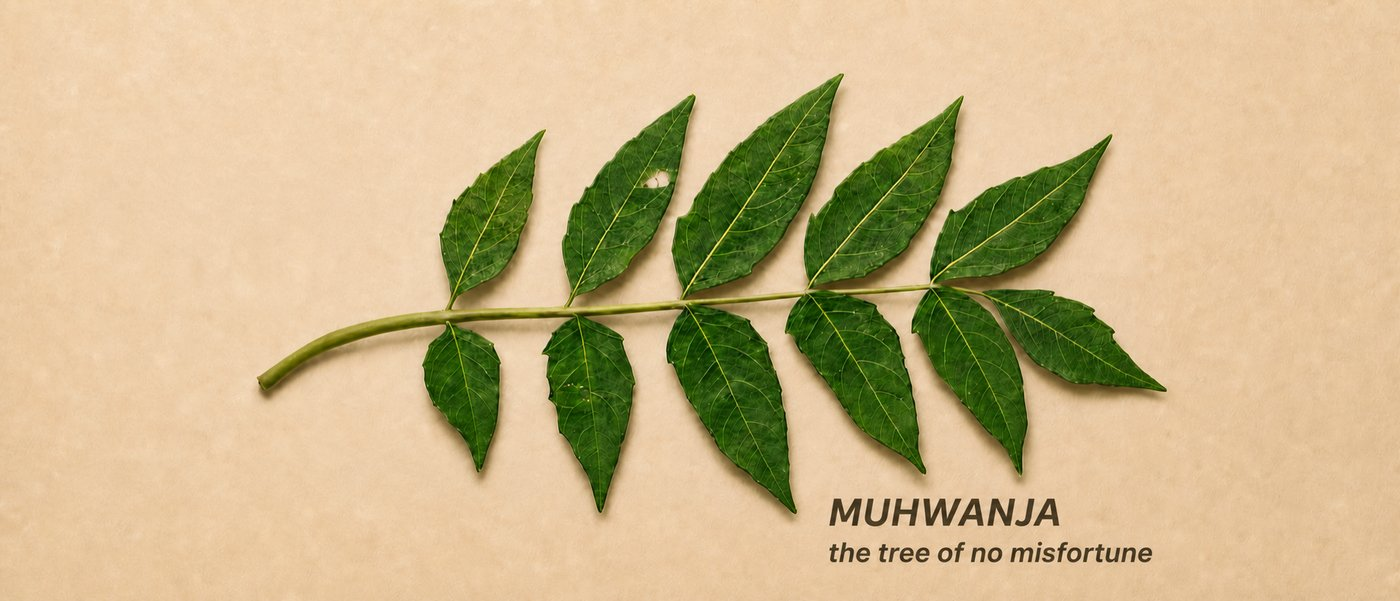
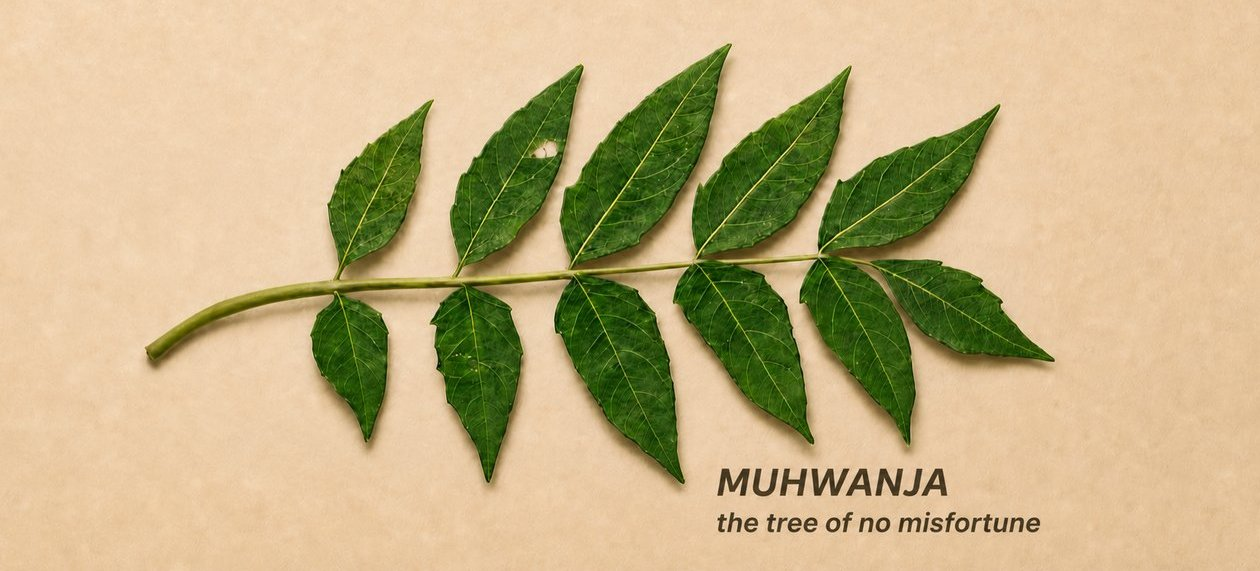
Add files via upload

Changed region(s): [[0.0929, 0.0595, 0.8357, 0.9527]]

diff --git a/app.js b/app.js
@@ -269,7 +269,7 @@ if (typeof document !== 'undefined' && document.getElementById('app')) (function
   var wxCache = load(LS_WX);
   var newsCache = load(LS_NEWS);
   var activeTab = 'watch';
-  var lastMsgKey = '', wakeLock = null, wakeWanted = false;
+  var lastMsgKey = '';
 
   function load(k) { try { return JSON.parse(localStorage.getItem(k)); } catch (e) { return null; } }
   function save() { localStorage.setItem(LS_STATE, JSON.stringify(state)); }
@@ -278,7 +278,7 @@ if (typeof document !== 'undefined' && document.getElementById('app')) (function
   /* ---------- DOM ---------- */
   function $(id) { return document.getElementById(id); }
   var els = {
-    date: $('hdrDate'), clock: $('hdrClock'), wakeBtn: $('wakeBtn'),
+    date: $('hdrDate'), clock: $('hdrClock'), btnDark: $('btnDark'),
     vStandby: $('view-standby'), vActive: $('view-active'), vDone: $('view-done'), vHistory: $('view-history'),
     greetTitle: $('greetTitle'), greetSub: $('greetSub'), sugBox: $('sugBox'), wxStandby: $('wxStandby'),
     leafMarkers: $('leafMarkers'),
@@ -315,7 +315,7 @@ if (typeof document !== 'undefined' && document.getElementById('app')) (function
     var now = new Date();
     if (state.current && now.getTime() > state.current.end + 12 * HOUR) archive(false);
     document.body.classList.toggle('dawn', state.current ? phase(now) === 'done' : false);
-    els.wakeBtn.style.visibility = (state.current && phase(now) === 'active' && 'wakeLock' in navigator) ? 'visible' : 'hidden';
+    document.body.classList.toggle('phase-active', activeTab === 'watch' && phase(now) === 'active');
     if (activeTab === 'history') { show('vHistory'); renderHistory(); }
     else {
       var ph = phase(now);
@@ -445,18 +445,18 @@ if (typeof document !== 'undefined' && document.getElementById('app')) (function
   }
 
   /* ---------- Muhwanja leaf call counter ---------- */
-  var LEAF_POSITIONS = [ // image-percent coords, clockwise from upper-left leaf
-    { x: 36,   y: 35, w: 9   },
-    { x: 44.5, y: 32, w: 9.5 },
-    { x: 53,   y: 31, w: 10  },
-    { x: 62,   y: 32, w: 9.5 },
-    { x: 71,   y: 35, w: 9   },
-    { x: 82,   y: 58, w: 10  },
-    { x: 71,   y: 61, w: 9   },
-    { x: 62,   y: 63, w: 9.5 },
-    { x: 52,   y: 65, w: 10  },
-    { x: 43,   y: 65, w: 9.5 },
-    { x: 34,   y: 63, w: 9   }
+  var LEAF_POSITIONS = [ // cropped-image percent coords, clockwise from upper-left leaf
+    { x: 31.1, y: 31.6, w: 9   },
+    { x: 40.6, y: 28.4, w: 9.5 },
+    { x: 50.0, y: 27.4, w: 10  },
+    { x: 60.0, y: 28.4, w: 9.5 },
+    { x: 70.0, y: 31.6, w: 9   },
+    { x: 79.0, y: 53.5, w: 10  },
+    { x: 70.0, y: 58.9, w: 9   },
+    { x: 60.0, y: 61.1, w: 9.5 },
+    { x: 48.9, y: 63.2, w: 10  },
+    { x: 38.9, y: 63.2, w: 9.5 },
+    { x: 28.9, y: 61.1, w: 9   }
   ];
   function renderLeafCalls() {
     if (!els.leafMarkers) return;
@@ -470,8 +470,8 @@ if (typeof document !== 'undefined' && document.getElementById('app')) (function
       if (i === LEAF_POSITIONS.length - 1 && total > LEAF_POSITIONS.length) {
         label = String(total); // 12th call onward: last leaf shows the running total
       }
-      var sizeVw = pos.w * 0.66;
-      var markerSize = 'clamp(20px,' + sizeVw.toFixed(2) + 'vw,40px)';
+      var sizeVw = pos.w * 0.44; // 잎 너비의 약 2/3에서 다시 2/3로 축소
+      var markerSize = 'clamp(13px,' + sizeVw.toFixed(2) + 'vw,27px)';
       html += '<span class="leaf-marker" style="left:' + pos.x + '%;top:' + pos.y +
         '%;--marker-size:' + markerSize + ';">' + label + '</span>';
     }
@@ -870,26 +870,20 @@ if (typeof document !== 'undefined' && document.getElementById('app')) (function
       .catch(function () { renderTicker(); });
   }
 
-  /* ---------- Keep screen on ---------- */
-  if ('wakeLock' in navigator) {
-    els.wakeBtn.addEventListener('click', function () {
-      wakeWanted = !wakeWanted;
-      if (wakeWanted) acquireWake(); else releaseWake();
-    });
-    document.addEventListener('visibilitychange', function () {
-      if (wakeWanted && document.visibilityState === 'visible') acquireWake();
-    });
+  /* ---------- Dark mode toggle ---------- */
+  var SUN_ICON = '<circle cx="12" cy="12" r="4"/><path d="M12 2v2M12 20v2M4.9 4.9l1.4 1.4M17.7 17.7l1.4 1.4M2 12h2M20 12h2M4.9 19.1l1.4-1.4M17.7 6.3l1.4-1.4"/>';
+  var MOON_ICON = '<path d="M21 12.8A9 9 0 1 1 11.2 3a7 7 0 0 0 9.8 9.8z"/>';
+  function applyDark() {
+    document.body.classList.toggle('dark', !!settings.dark);
+    $('darkIcon').innerHTML = settings.dark ? SUN_ICON : MOON_ICON;
+    var meta = document.querySelector('meta[name="theme-color"]');
+    if (meta) meta.setAttribute('content', settings.dark ? '#14100A' : '#F0E9DA');
   }
-  function acquireWake() {
-    navigator.wakeLock.request('screen').then(function (wl) {
-      wakeLock = wl;
-      els.wakeBtn.classList.add('on');
-    }).catch(function () { wakeWanted = false; });
-  }
-  function releaseWake() {
-    if (wakeLock) { wakeLock.release(); wakeLock = null; }
-    els.wakeBtn.classList.remove('on');
-  }
+  els.btnDark.addEventListener('click', function () {
+    settings.dark = !settings.dark;
+    saveSet();
+    applyDark();
+  });
 
   /* ---------- Tabs ---------- */
   document.querySelectorAll('.tab').forEach(function (t) {
@@ -937,6 +931,7 @@ if (typeof document !== 'undefined' && document.getElementById('app')) (function
   window.addEventListener('online', function () { fetchWeather(true); fetchNews(true); });
 
   /* ---------- Boot ---------- */
+  applyDark();
   renderHeader(new Date());
   lastPhase = state.current ? phase(new Date()) : 'standby';
   renderAll();

diff --git a/index.html b/index.html
@@ -78,9 +78,10 @@ body.dawn .atmo::before{
   display:flex;flex-direction:column;
   padding:calc(var(--safe-t) + 6px) 18px calc(var(--safe-b) + 6px);}
 
-/* ---------- Hospital banner ---------- */
-.banner{flex:none;width:calc(100% + 36px);margin:0 -18px;display:block;}
-.banner img{display:block;width:100%;height:auto;user-select:none;-webkit-user-drag:none;}
+/* ---------- Hospital logo (small, theme-tinted) ---------- */
+.logo-top{flex:none;display:block;height:20px;width:auto;margin:2px auto 0;opacity:.85;user-select:none;-webkit-user-drag:none;}
+.logo-bot{flex:none;display:none;height:17px;width:auto;margin:6px auto 0;opacity:.7;user-select:none;-webkit-user-drag:none;}
+body.phase-active .logo-bot{display:block;}
 
 /* ---------- Brand (Futura, centered) ---------- */
 .brand-c{flex:none;text-align:center;margin-top:8px;
@@ -142,16 +143,16 @@ main{flex:1;min-height:0;display:flex;flex-direction:column;}
 @keyframes pulse{0%{transform:scale(1);}35%{transform:scale(1.06);}100%{transform:scale(1);}}
 
 /* ---------- Muhwanja call tree ---------- */
-.call-tree{position:relative;flex:none;width:100%;height:clamp(138px,20dvh,178px);
+.call-tree{position:relative;flex:none;width:100%;aspect-ratio:1260/571;
   margin-top:10px;overflow:hidden;border-radius:18px;
   background:rgba(255,252,243,.38);border:1px solid var(--line-soft);
-  isolation:isolate;display:flex;align-items:center;justify-content:center;}
-.call-tree-inner{position:relative;height:100%;max-width:100%;aspect-ratio:1400/601;}
+  isolation:isolate;}
+.call-tree-inner{position:absolute;inset:0;}
 .call-tree-img{position:absolute;inset:0;width:100%;height:100%;
-  object-fit:contain;object-position:center;display:block;
+  object-fit:cover;object-position:center;display:block;
   pointer-events:none;user-select:none;-webkit-user-drag:none;}
 .tree-call-btn{position:absolute;z-index:4;
-  left:17%;top:60%;
+  left:10%;top:58%;
   transform:translate(-50%,-50%);
   width:64px;height:64px;border-radius:50%;
   display:flex;flex-direction:column;align-items:center;justify-content:center;gap:0;
@@ -365,11 +366,10 @@ main{flex:1;min-height:0;display:flex;flex-direction:column;}
 .toast.on{opacity:1;transform:translate(-50%,0);}
 
 /* ---------- Auto-compact (one-screen guarantee) ---------- */
-body.tight .banner{display:none;}
 body.tight .bat-track{height:clamp(84px,11dvh,108px);}
 body.tight .bat-pct span{font-size:clamp(32px,4.6dvh,42px);}
 body.tight .bat-block{margin-top:6px;}
-body.tight .call-tree{height:clamp(120px,17dvh,150px);margin-top:7px;}
+body.tight .call-tree{max-width:86%;margin-left:auto;margin-right:auto;margin-top:7px;}
 body.tight .msg{margin-top:7px;min-height:46px;}
 body.tight .line-sec{margin-top:7px;}
 body.tight .wx{margin-top:8px;}
@@ -381,7 +381,7 @@ body.tighter .meta-c{display:none;}
 body.tighter .bat-track{height:80px;}
 body.tighter .bat-pct span{font-size:30px;}
 body.tighter .bat-in{bottom:5px;}
-body.tighter .call-tree{height:112px;}
+body.tighter .call-tree{max-width:72%;}
 body.tighter .tree-call-btn{width:52px;height:52px;}
 body.tighter .tree-call-word{font-size:.66rem;}
 body.tighter .tree-call-plus{font-size:.6rem;}
@@ -400,6 +400,32 @@ body.tighter .tab{padding:6px 16px;}
   .leaf-marker{font-size:calc(var(--marker-size) * .78);}
 }
 
+/* ---------- Dark mode (Arrakis night) ---------- */
+body.dark{
+  --bg0:#14100A; --bg1:#0D0A06;
+  --ink:#EDE1C8; --ink-2:#BFAE8F; --ink-3:#8A7A61;
+  --amber:#C99B5F; --amber-soft:rgba(201,155,95,.16);
+  --line:rgba(237,225,200,.15); --line-soft:rgba(237,225,200,.09);
+  --card:rgba(36,28,18,.72);
+}
+body.dark .atmo::before{
+  background:
+    radial-gradient(120% 55% at 50% 112%, rgba(201,155,95,.20) 0%, rgba(201,155,95,.07) 38%, transparent 62%),
+    linear-gradient(180deg,#181209 0%,var(--bg0) 50%,var(--bg1) 100%);
+}
+body.dark .bat-track{background:rgba(28,21,13,.6);border-color:rgba(237,225,200,.28);}
+body.dark .bat-pct span{color:#F4EDDE;text-shadow:0 1px 3px rgba(0,0,0,.6);}
+body.dark .bt{text-shadow:none;}
+body.dark .bat-cap{background:rgba(237,225,200,.3);}
+body.dark .call-tree-img{filter:brightness(.9);}
+body.dark .tree-tool{background:rgba(28,21,13,.85);}
+body.dark .logo-top,body.dark .logo-bot{filter:invert(.88) sepia(.3) saturate(.5);}
+body.dark .sheet,body.dark .dlg{background:#1C150C;}
+body.dark .f-in,body.dark .tl-scroll{background:#241B10;color:var(--ink);}
+body.dark .pick-btn{background:var(--amber-soft);}
+body.dark .toast{background:rgba(237,225,200,.95);color:#241B10;}
+body.dark .btn-call,body.dark .btn-start,body.dark .btn-sheet.ok{filter:saturate(.9);}
+
 @media (prefers-reduced-motion:reduce){
   *{animation-duration:.01ms !important;transition-duration:.01ms !important;}
   .tk{animation:none;}
@@ -414,13 +440,13 @@ body.tighter .tab{padding:6px 16px;}
   </svg></div>
 
   <div id="app">
-    <div class="banner"><img src="SNUBH_HI.jpg" alt="Seoul National University Bundang Hospital"></div>
     <div class="brand-c">NIGHT<em>WATCH</em></div>
     <div class="meta-c"><span id="hdrDate">--</span> · <b id="hdrClock">--:--</b></div>
 
     <main>
       <!-- ===== STANDBY ===== -->
       <section class="view" id="view-standby">
+        <img class="logo-top" src="snubh-logo.png" alt="Seoul National University Bundang Hospital">
         <h1 class="greet" id="greetTitle">Tonight's watch</h1>
         <p class="greet-sub" id="greetSub">Weeknights 19:00 → 07:00 · Weekends 07:00 → 07:00. Backdated automatically.</p>
         <div class="wx" id="wxStandby"></div>
@@ -521,11 +547,12 @@ body.tighter .tab{padding:6px 16px;}
         <button class="tab on" data-tab="watch" type="button">WATCH</button>
         <button class="tab" data-tab="history" type="button">HISTORY</button>
       </div></nav>
-      <button class="icon-btn" id="wakeBtn" type="button" style="visibility:hidden" aria-label="Keep screen on">
-        <svg width="17" height="17" viewBox="0 0 24 24" fill="none" stroke="currentColor" stroke-width="2" stroke-linecap="round"><circle cx="12" cy="12" r="4"/><path d="M12 2v2M12 20v2M4.9 4.9l1.4 1.4M17.7 17.7l1.4 1.4M2 12h2M20 12h2M4.9 19.1l1.4-1.4M17.7 6.3l1.4-1.4"/></svg>
+      <button class="icon-btn" id="btnDark" type="button" aria-label="Toggle dark mode">
+        <svg id="darkIcon" width="17" height="17" viewBox="0 0 24 24" fill="none" stroke="currentColor" stroke-width="2" stroke-linecap="round"><circle cx="12" cy="12" r="4"/><path d="M12 2v2M12 20v2M4.9 4.9l1.4 1.4M17.7 17.7l1.4 1.4M2 12h2M20 12h2M4.9 19.1l1.4-1.4M17.7 6.3l1.4-1.4"/></svg>
       </button>
     </div>
     <div class="ticker" id="ticker"><div class="tk" id="tk"><span id="tkA">Loading good news…</span><span id="tkB">Loading good news…</span></div></div>
+    <img class="logo-bot" src="snubh-logo.png" alt="Seoul National University Bundang Hospital">
   </div>
 
   <!-- Edit sheet -->

diff --git a/sw.js b/sw.js
@@ -1,12 +1,12 @@
 /* Night Watch — offline-first service worker */
 'use strict';
-const VERSION = 'nightwatch-v2.5.2';
+const VERSION = 'nightwatch-v2.6.0';
 const ASSETS = [
   './',
   './index.html',
   './app.js',
   './manifest.webmanifest',
-  './SNUBH_HI.jpg',
+  './snubh-logo.png',
   './muhwanja-leaf.jpg',
   './fonts/lato-latin-400-normal.woff2',
   './fonts/lato-latin-700-normal.woff2',